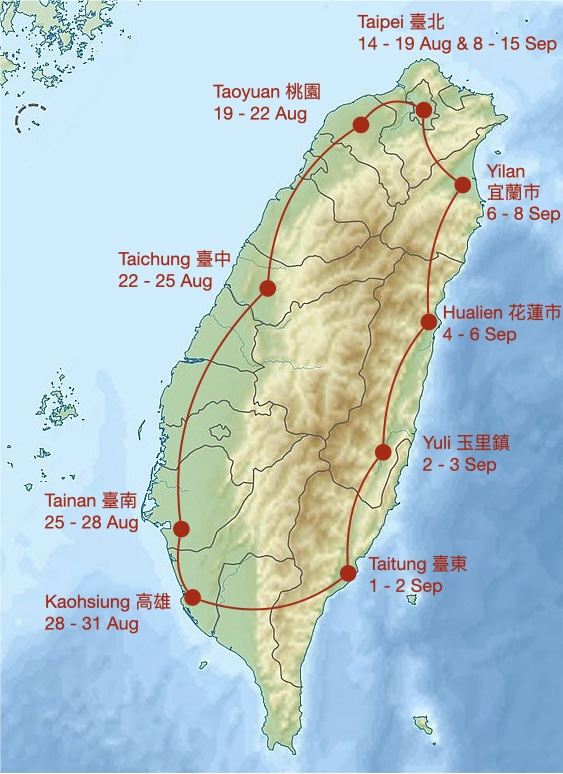
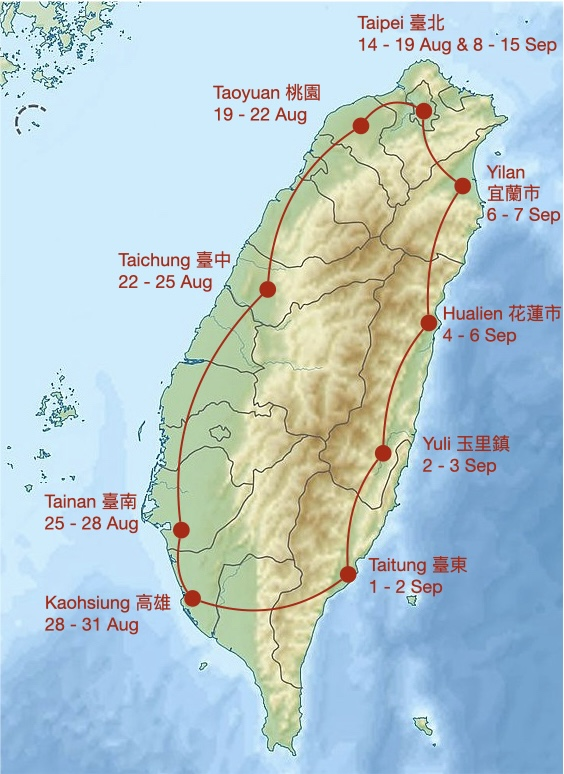
added yilan

diff --git a/index.html b/index.html
@@ -553,8 +553,50 @@
       <img src="assets/media/Hualien/PXL_20240906_033159976.jpg" width="3024" height="4032" />
       <img src="assets/media/Hualien/PXL_20240906_034318040.jpg" width="3024" height="4032" />
     </details>
+
+    <details>
+      <summary>
+        Yilan 宜蘭市: <i>6 - 7 Sep 2024</i>
+      </summary>
+      <img src="assets/media/Yilan/PXL_20240906_060442243~2.jpg" width="3280" height="2464" />
+      <img src="assets/media/Yilan/PXL_20240906_061827996.jpg" width="4032" height="3024" />
+      <img src="assets/media/Yilan/PXL_20240906_093904755.jpg" width="4032" height="3024" />
+      <img src="assets/media/Yilan/PXL_20240906_103206382.jpg" width="3024" height="4032" />
+      <img src="assets/media/Yilan/PXL_20240906_104356166.jpg" width="3024" height="4032" />
+      <img src="assets/media/Yilan/PXL_20240906_104559930.jpg" width="3024" height="4032" />
+      <img src="assets/media/Yilan/PXL_20240906_113455992.NIGHT.jpg" width="4032" height="3024" />
+      <img src="assets/media/Yilan/PXL_20240906_114030722.NIGHT.jpg" width="3024" height="4032" />
+      <img src="assets/media/Yilan/PXL_20240907_002724702.jpg" width="4032" height="3024" />
+      <img src="assets/media/Yilan/PXL_20240907_003235204.jpg" width="3024" height="4032" />
+      <img src="assets/media/Yilan/PXL_20240907_005547368.PORTRAIT.jpg" width="3024" height="4032" />
+      <img src="assets/media/Yilan/PXL_20240907_005613437.jpg" width="3024" height="4032" />
+      <img src="assets/media/Yilan/PXL_20240907_005853437.jpg" width="3024" height="4032" />
+      <img src="assets/media/Yilan/PXL_20240907_010033978.jpg" width="3024" height="4032" />
+      <img src="assets/media/Yilan/PXL_20240907_010309094.jpg" width="3024" height="4032" />
+      <img src="assets/media/Yilan/PXL_20240907_010342314.jpg" width="4032" height="3024" />
+      <img src="assets/media/Yilan/PXL_20240907_010622111.jpg" width="4032" height="3024" />
+      <img src="assets/media/Yilan/PXL_20240907_010821348.jpg" width="4032" height="3024" />
+      <img src="assets/media/Yilan/PXL_20240907_011828002.jpg" width="3024" height="4032" />
+      <img src="assets/media/Yilan/PXL_20240907_013406437.jpg" width="3024" height="4032" />
+      <img src="assets/media/Yilan/PXL_20240907_030323765.jpg" width="3024" height="4032" />
+      <img src="assets/media/Yilan/PXL_20240907_032718019.jpg" width="3024" height="4032" />
+      <img src="assets/media/Yilan/PXL_20240907_034127302.jpg" width="3024" height="4032" />
+      <img src="assets/media/Yilan/PXL_20240907_040529311.jpg" width="3024" height="4032" />
+      <img src="assets/media/Yilan/PXL_20240907_042642743.jpg" width="4032" height="3024" />
+      <img src="assets/media/Yilan/PXL_20240907_050148827.jpg" width="3024" height="4032" />
+      <img src="assets/media/Yilan/PXL_20240907_054043337.jpg" width="4032" height="3024" />
+      <img src="assets/media/Yilan/PXL_20240907_072900873.jpg" width="4032" height="3024" />
+      <img src="assets/media/Yilan/PXL_20240907_072952957.jpg" width="4032" height="3024" />
+      <img src="assets/media/Yilan/PXL_20240907_073034092.jpg" width="3024" height="4032" />
+      <img src="assets/media/Yilan/PXL_20240907_073215205.jpg" width="3024" height="4032" />
+      <img src="assets/media/Yilan/PXL_20240907_082550056.jpg" width="3024" height="4032" />
+      <img src="assets/media/Yilan/PXL_20240907_082706078.jpg" width="3024" height="4032" />
+      <img src="assets/media/Yilan/PXL_20240907_083147319.jpg" width="3024" height="4032" />
+      <img src="assets/media/Yilan/PXL_20240907_084701075.jpg" width="3024" height="4032" />
+      <img src="assets/media/Yilan/PXL_20240907_085920943.jpg" width="4032" height="3024" />
+    </details>
     
-    <br> 📍 Currently in Yilan 宜蘭市. <br/>
+    <br> 📍 Currently in Taipei 臺北. <br/>
 
     <br> 如果你听得懂中文，可以去看我的YouTube频道：
     <a href="https://www.youtube.com/@briceinsingapore">here</a>
